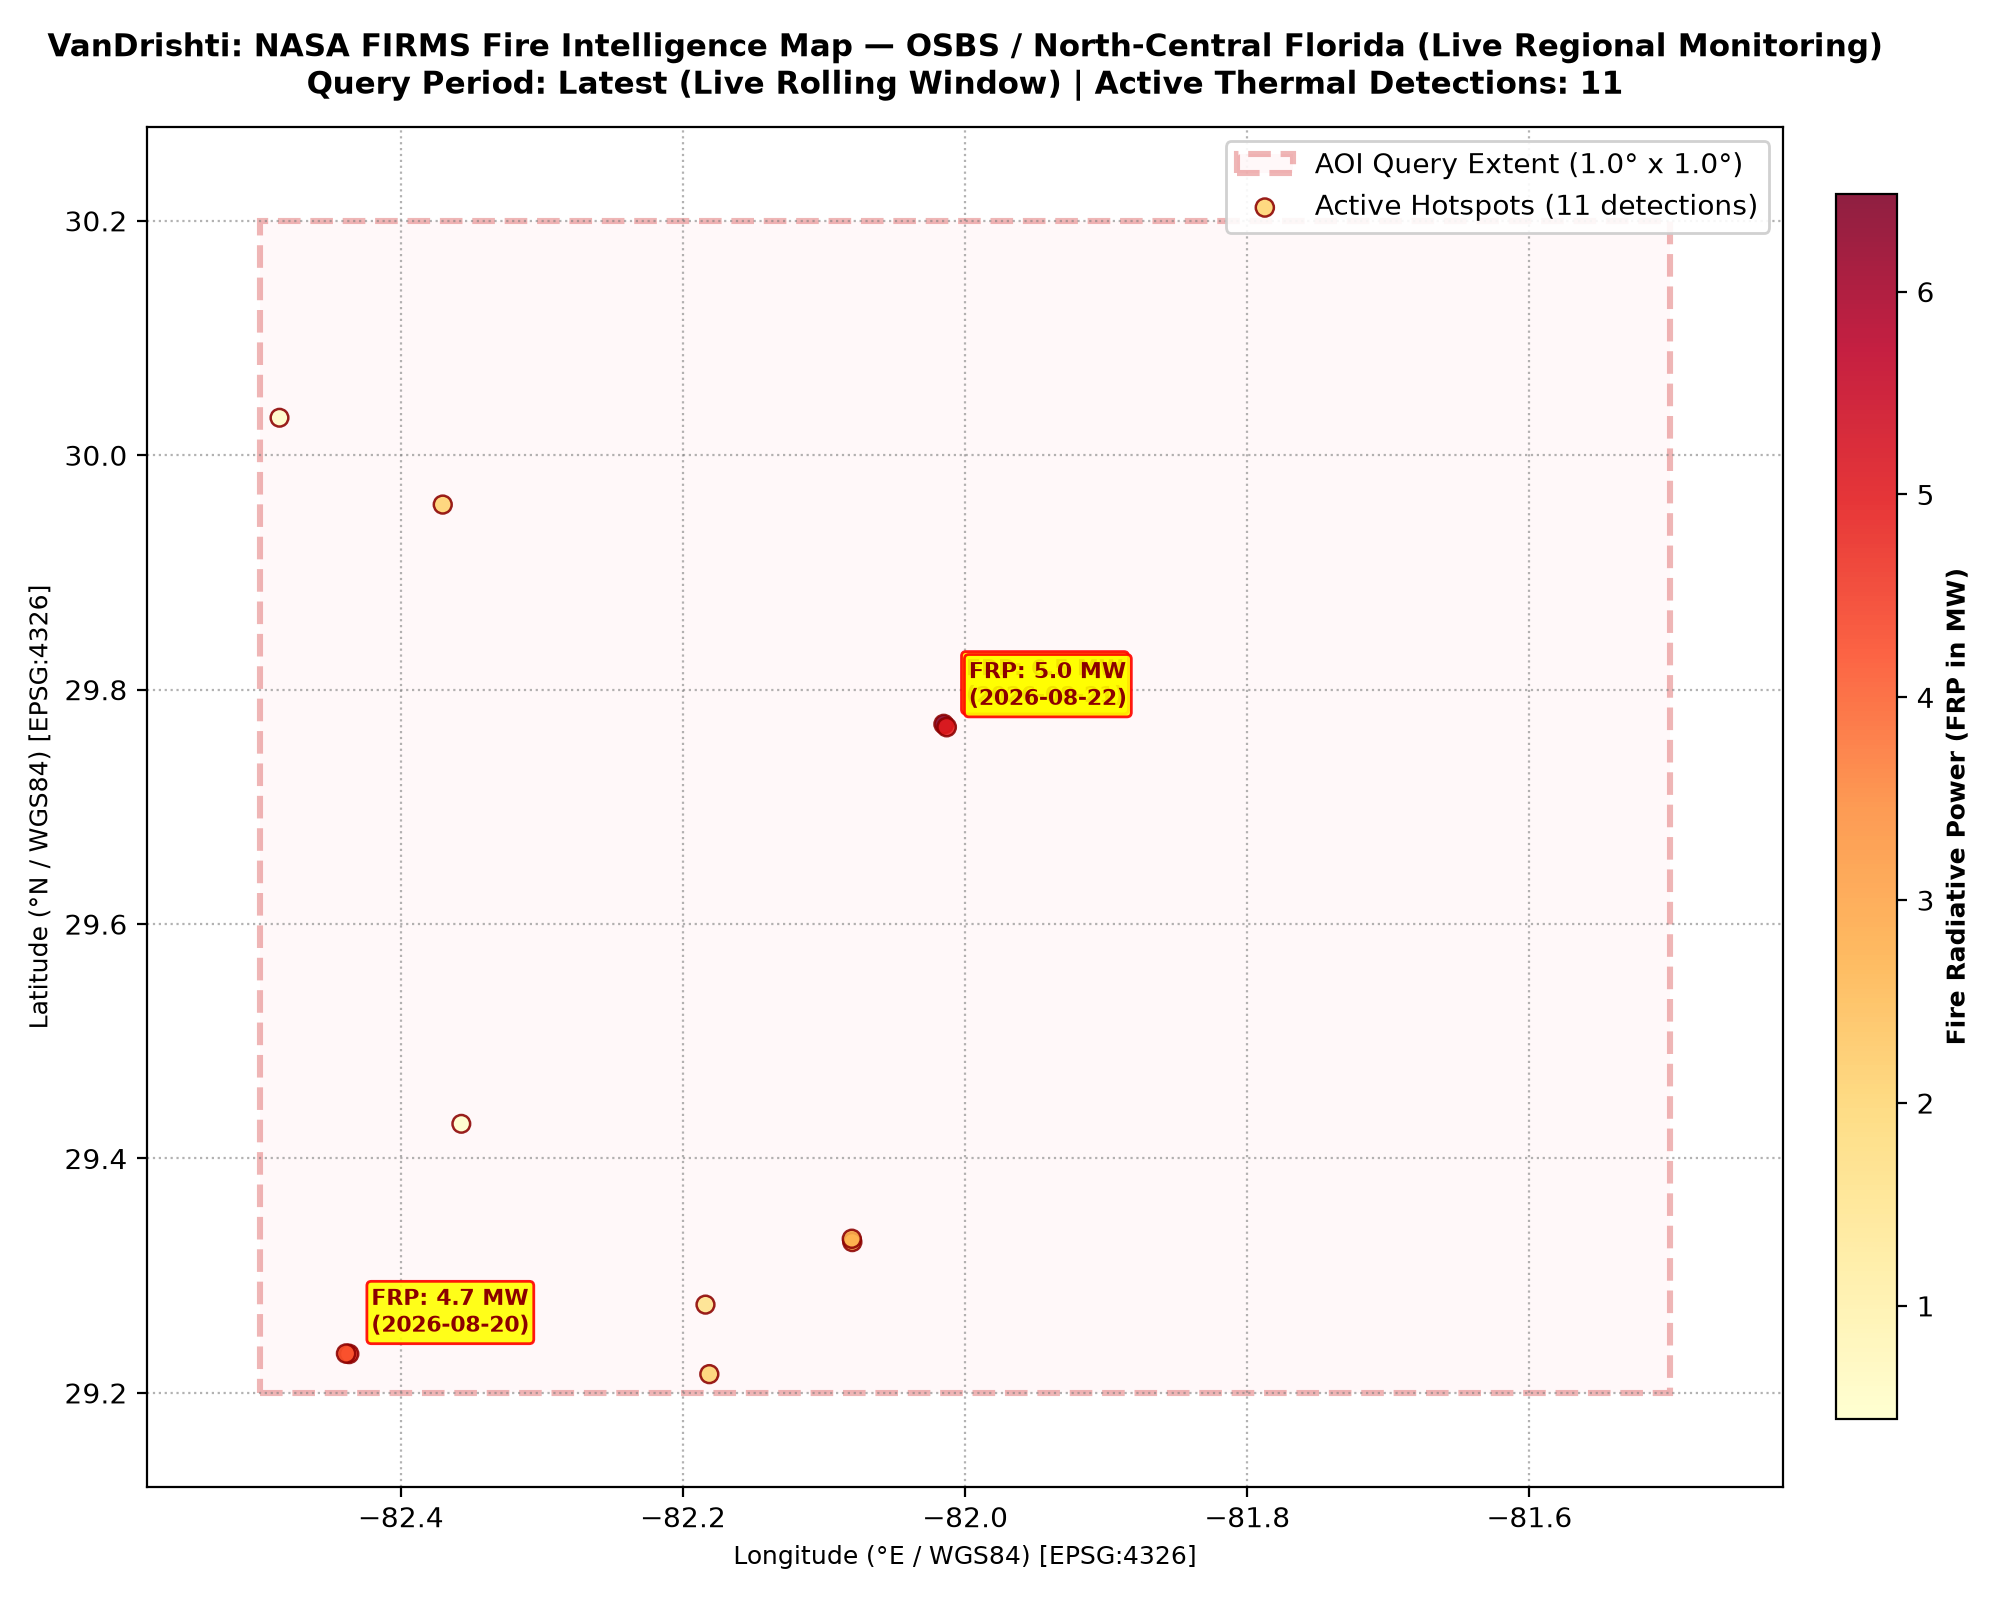
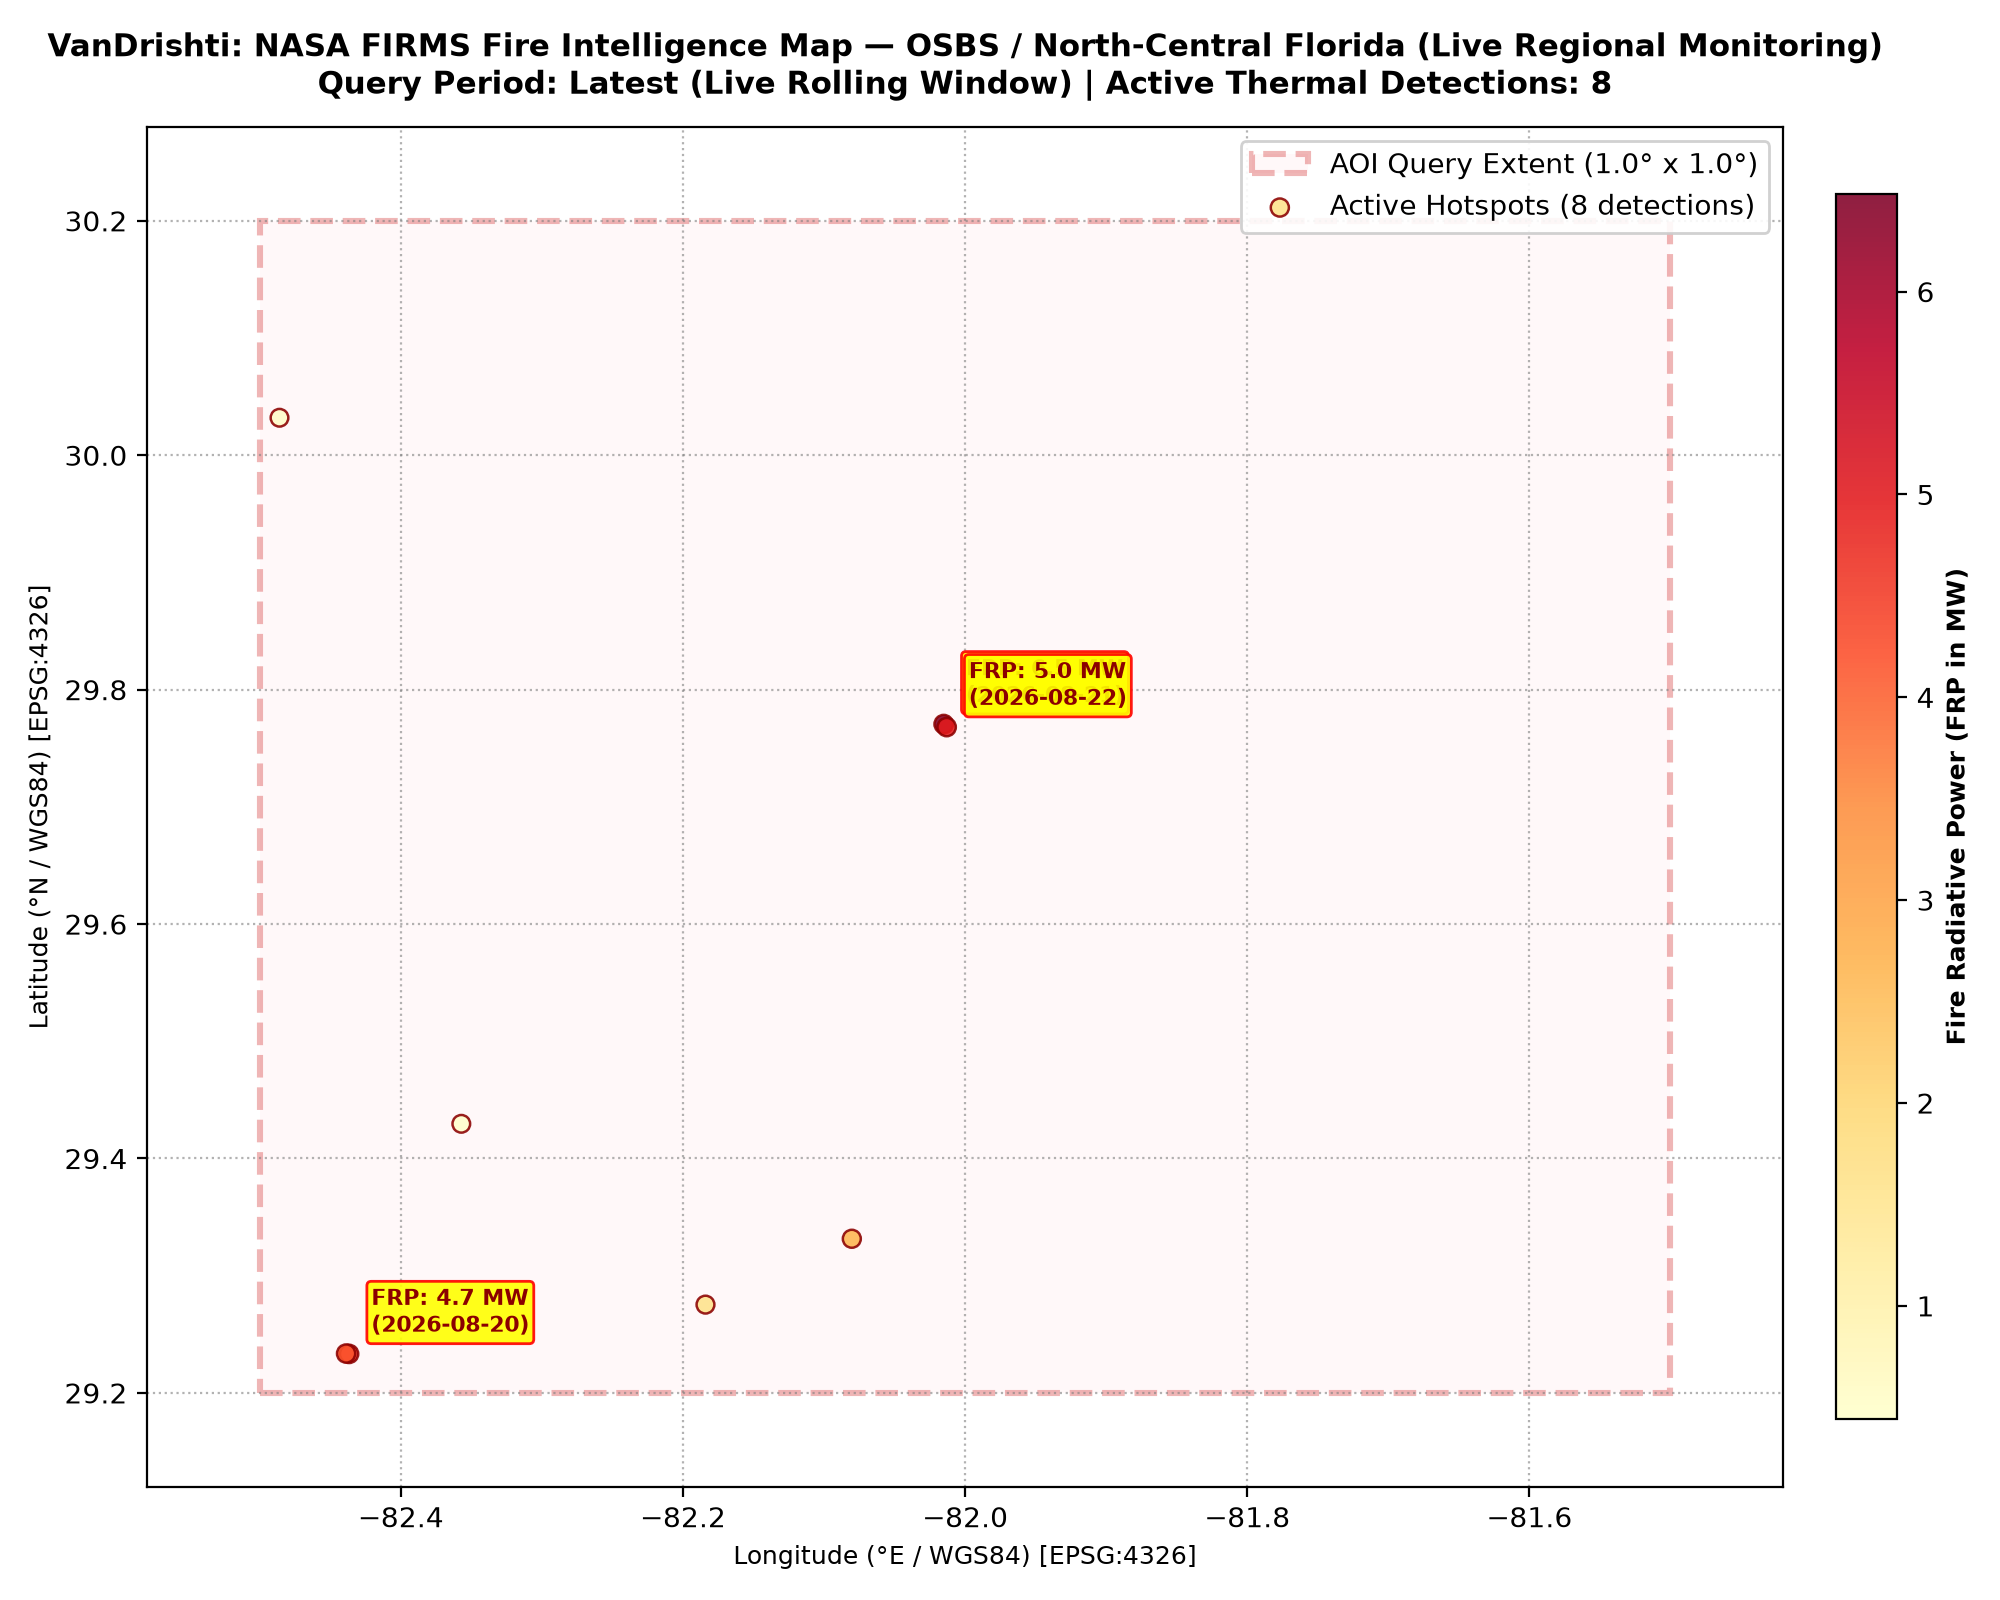
fix: correct report site label key, area report candidate path, canopy mask CSS and caption distance

Changed region(s): [[0.155, 0.0312, 0.806, 0.0625], [0.62, 0.0938, 0.868, 0.1562], [0.341, 0.8438, 0.372, 0.875]]

diff --git a/frontend/src/App.jsx b/frontend/src/App.jsx
@@ -1945,7 +1945,7 @@ function AppDashboard({ user, logout }) {
                   style={{ border: '1px solid var(--vd-border-subtle)' }}
                 />
                 <div style={{ fontSize: '11px', color: 'var(--vd-text-secondary)', lineHeight: 1.4 }}>
-                  <b>Panel 1 (Left)</b>: High-Resolution RGB Orthomosaic with Terrain-Aware TSP Route (488.9 m, 14.96 min) across 13 HIGH stops.<br />
+                  <b>Panel 1 (Left)</b>: High-Resolution RGB Orthomosaic with Terrain-Aware TSP Route (432.1 m, 14.96 min) across 13 HIGH stops.<br />
                   <b>Panel 2 (Right)</b>: NEON LiDAR Canopy Height Model (CHM p95=16.6m) showing optimal navigation through natural forest gaps.
                 </div>
               </div>

diff --git a/frontend/src/index.css b/frontend/src/index.css
@@ -1467,3 +1467,27 @@ html, body {
   background-color: #eef8ea;
   border-color: var(--vd-deep);
 }
+
+/* ── Canopy Mask / static image viewer ────────────────────────── */
+.image-viewer-container {
+  width: 100%;
+  height: 100%;
+  overflow: auto;
+  padding: 12px;
+}
+
+.image-viewer-box {
+  display: flex;
+  flex-direction: column;
+  gap: 10px;
+  padding: 12px;
+  border-radius: 8px;
+}
+
+.image-viewer-box img {
+  max-width: 100%;
+  height: auto;
+  display: block;
+  border-radius: 4px;
+}
+

diff --git a/backend/services/report_generator.py b/backend/services/report_generator.py
@@ -54,7 +54,7 @@ def generate_diversion_csv(site_name: str = "OSBS_large_2019") -> str:
             item.get("priority"),
             item.get("rationale"),
             site_ctx.get("site_id"),
-            site_ctx.get("site_label")
+            site_ctx.get("study_tile_label")
         ])
 
     return output.getvalue()
@@ -145,7 +145,7 @@ def generate_diversion_pdf(site_name: str = "OSBS_large_2019") -> bytes:
         # 1. Header Title Banner & Site Context
         story.append(Paragraph("VanDrishti — Forest Intelligence Platform", subtitle_style))
         story.append(Spacer(1, 2))
-        story.append(Paragraph(f"Site-Specific Forest Diversion Assessment: {site_ctx.get('site_label')}", title_style))
+        story.append(Paragraph(f"Site-Specific Forest Diversion Assessment: {site_ctx.get('study_tile_label')}", title_style))
         story.append(Spacer(1, 3))
         story.append(Paragraph(f"Generated: {site_ctx.get('generated_at')} | CRS: {site_ctx.get('crs_processing')} → {site_ctx.get('crs_webgis')}", body_style))
         story.append(Spacer(1, 5))
@@ -248,7 +248,7 @@ def generate_diversion_pdf(site_name: str = "OSBS_large_2019") -> bytes:
     except ImportError:
         fallback_text = (
             f"VanDrishti — Forest Diversion Assessment Report\n"
-            f"Site: {site_ctx.get('site_label')}\n"
+            f"Site: {site_ctx.get('study_tile_label')}\n"
             f"Generated: {site_ctx.get('generated_at')}\n\n"
             f"SUMMARY:\n"
             f"Corridor Area: {summary.get('corridor_area_sq_m'):,.1f} m²\n"

diff --git a/scripts/generate_area_report.py b/scripts/generate_area_report.py
@@ -38,6 +38,7 @@ def load_site_data(site_name: str) -> Dict[str, Any]:
 
     # Try frontend public data or processed directory
     candidates = [
+        REPO_ROOT / f"frontend/public/data/{site_key}_full_assessment.json",
         REPO_ROOT / f"frontend/public/data/{site_key}_assessment.json",
         REPO_ROOT / f"data/processed/{site_key}_assessment.json",
         REPO_ROOT / f"frontend/public/data/{stem}_assessment.json",
@@ -101,7 +102,7 @@ def load_site_data(site_name: str) -> Dict[str, Any]:
                     "module": "Multi-temporal Degradation",
                     "key": "degradation",
                     "level": "FULL" if site_key == "osbs" else "BLOCKED",
-                    "message": "Multi-index NDVI/NDRE bi-temporal change detection" if site_key == "osbs" else "Single epoch only — change detection unavailable",
+                    "message": "Bi-temporal CHM change detection" if site_key == "osbs" else "Single epoch only — change detection unavailable",
                     "note": "Canopy loss and thinning classification",
                 },
                 {
